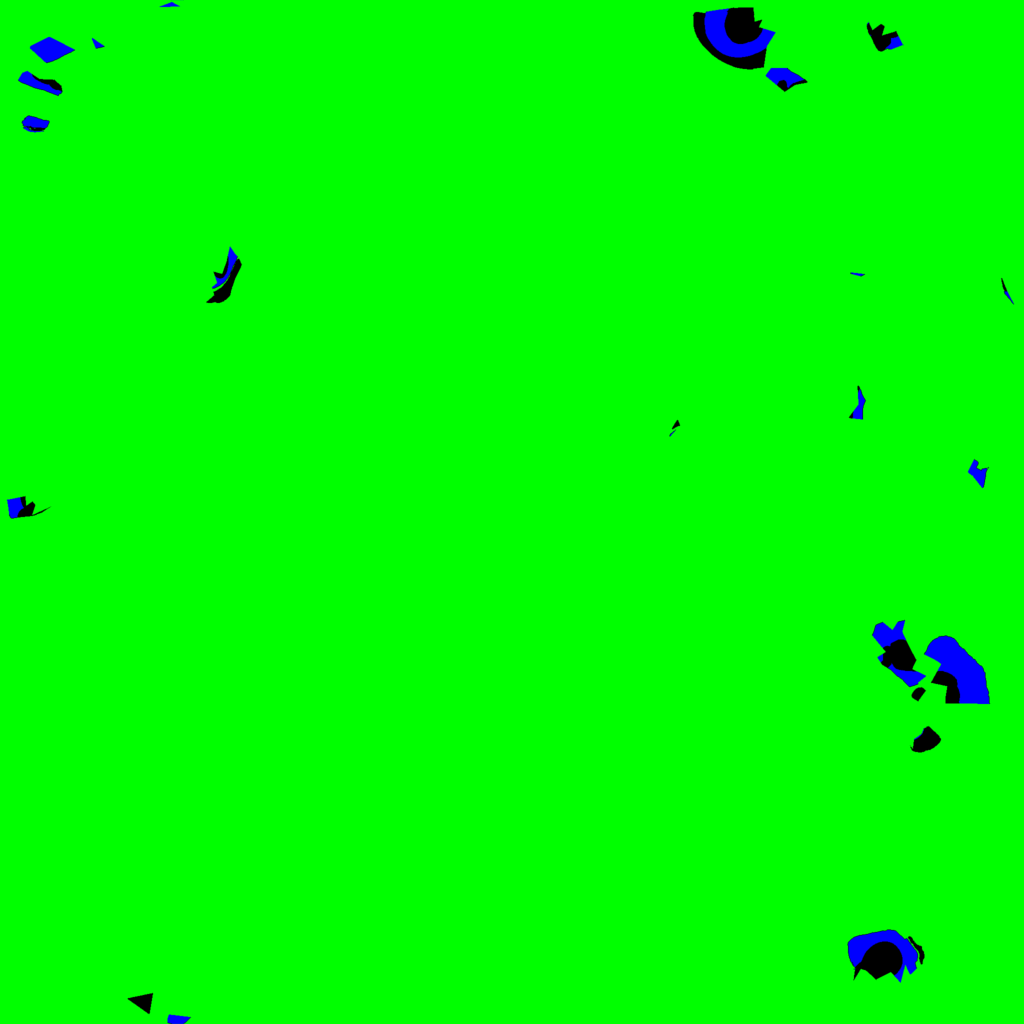
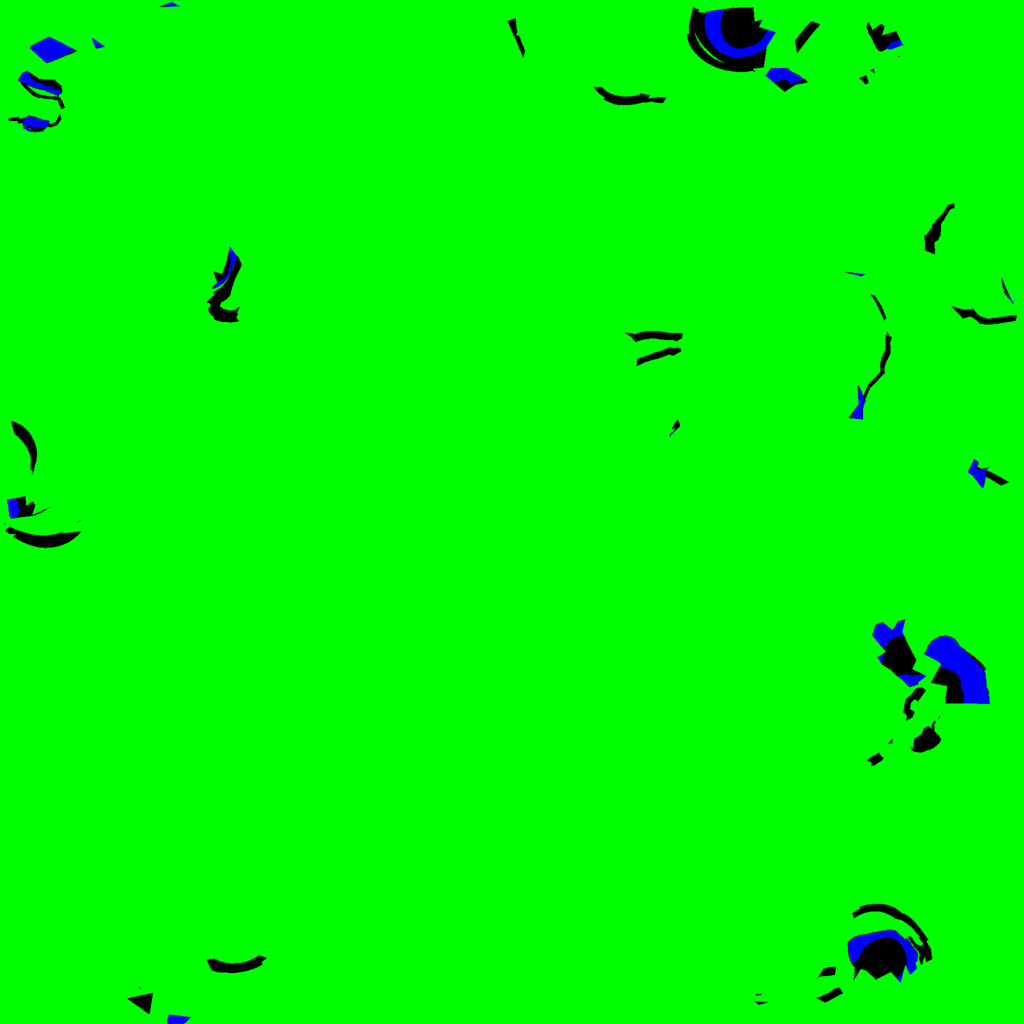
foi readable in play: bolder face (thicker brows, a dark lash line round the eyes, bigger pupils, a darker mouth) and a soft warm rim light on its body and face
- head kit: lash line drawn by each eye's own oval on the face (never recoloured), pupils 0.5 of the iris, brows half again thicker,
  the mouth's dark marks darker
- SquashBot/FoiRim shader (Resources/Shaders): an additive fresnel edge drawn over foi's armour and face (not the hair: every
  lock's edge glowed)

diff --git a/Assets/_Project/Scripts/Visual/SkinnedHero.cs b/Assets/_Project/Scripts/Visual/SkinnedHero.cs
@@ -239,6 +239,7 @@ namespace SquashBot.Visual
                 string nm = r.name.ToLowerInvariant();
                 r.sharedMaterial = r.name == "Cover" ? (lid ?? LidPaint(SkinOf(n, skin))) : nm.Contains("hair") ? HairPaint(hc) : nm.Contains("brows") ? BrowPaint(hc) : HeadPaint(n, skin, eyes);
                 r.receiveShadows = false; // (no flickering self-shadow on the face from the hair, hat or crown)
+                if (r.name != "Cover" && !nm.Contains("hair") && !nm.Contains("brows")) WithRim(r); // (not on the hair: every lock's edge would glow, wiry)
             }
         }
 
@@ -469,6 +470,33 @@ namespace SquashBot.Visual
             return m;
         }
 
+        private static Material rimMat;
+
+        /// <summary>foi's rim light (a soft warm edge where it turns from the camera: it stands out from any background).</summary>
+        private static Material Rim()
+        {
+            if (rimMat != null) return rimMat;
+            var sh = Resources.Load<Shader>("Shaders/FoiRim");
+            if (sh == null || !sh.isSupported) return null;
+            rimMat = new Material(sh) { name = "FoiRim" };
+            rimMat.SetColor("_RimColor", new Color(1f, 0.93f, 0.8f, 0.55f));
+            rimMat.SetFloat("_RimPower", 3.2f);
+            return rimMat;
+        }
+
+        /// <summary>The rim light drawn over a renderer's own paint (once).</summary>
+        private static void WithRim(Renderer r)
+        {
+            var rim = Rim();
+            if (rim == null) return;
+            var ms = r.sharedMaterials;
+            foreach (var m in ms) if (m == rim) return;
+            var all = new Material[ms.Length + 1];
+            ms.CopyTo(all, 0);
+            all[ms.Length] = rim;
+            r.sharedMaterials = all;
+        }
+
         private static void Matte(Material m)
         {
             m.SetFloat("_SpecularHighlights", 0f); m.EnableKeyword("_SPECULARHIGHLIGHTS_OFF");
@@ -517,6 +545,7 @@ namespace SquashBot.Visual
             foreach (var r in skin.GetComponentsInChildren<SkinnedMeshRenderer>(true))
             {
                 r.sharedMaterial = armour;
+                WithRim(r);
                 r.shadowCastingMode = Shapes.CastShadows ? UnityEngine.Rendering.ShadowCastingMode.On : UnityEngine.Rendering.ShadowCastingMode.Off;
             }
         }
